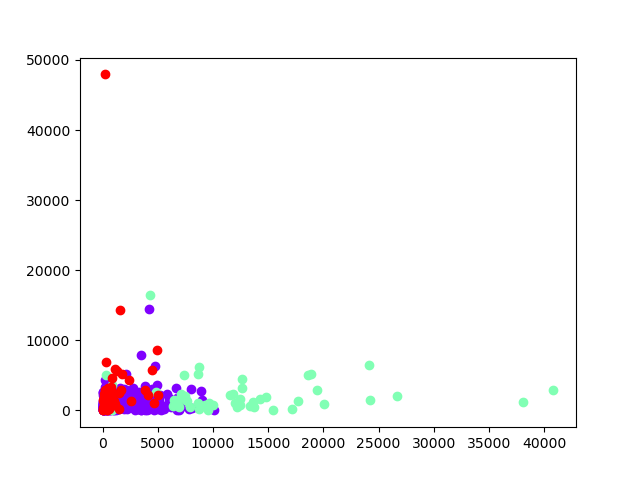
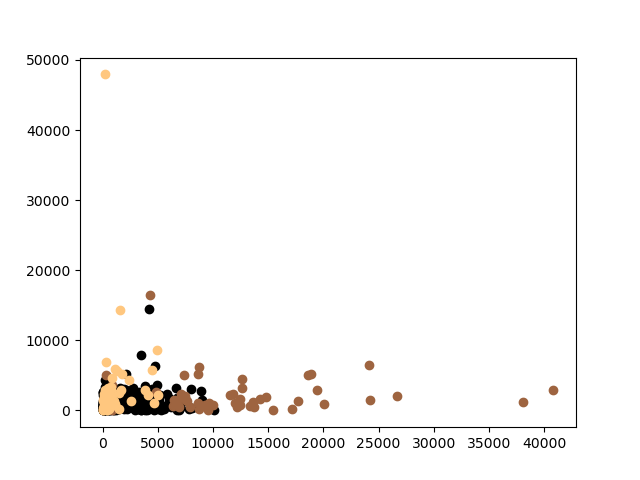
Fixed 1.4 trainging and testing

diff --git a/Classifcation2.py b/Classifcation2.py
@@ -15,7 +15,7 @@ def missingValues(df):
     nullInstances = df.isnull() # location of null instances
     totalMissing = nullInstances.sum().sum() # sum counts for each column
     Table["number of missing values"] = totalMissing 
-    Table["fraction missing values"] = totalMissing/(df.size-M)
+    Table["fraction of values missing"] = totalMissing/(df.size-M)
 
     nullRows = M - df.dropna().shape[0]
     Table["num of inst's missing values"] = nullRows
@@ -42,21 +42,22 @@ def encodeLabels(df, discClasses):
     return copy
 
 
-def trainTestModel(df):
+def trainTestSplit(df):
+    Xtrain = df.iloc[:,:-1]
+    Ytrain = df["class"]
+    Xtrain, Xtest, Ytrain, Ytest = model_select.train_test_split(Xtrain, Ytrain, random_state=0 )
+    return Xtrain, Xtest, Ytrain, Ytest
 
-    X = df.iloc[:,:-1]
-    Y = df["class"]
-    X_train, X_test, y_train, y_test = model_select.train_test_split(X, Y, random_state=0 )
-
-    # initialise the decision tree
-    clf = tree.DecisionTreeClassifier( random_state = 0 )
-    # fit the tree model to the training data
-    clf.fit(X_train, y_train)
-
-    testScore = clf.score(X_test, y_test)
+def trainModel(Xtrain, Ytrain):
+    clf = tree.DecisionTreeClassifier(random_state=0)
+    clf.fit(Xtrain,Ytrain)
+    return clf
+    
+def testModel(model,Xtest,Ytest):
+    testScore = model.score(Xtest, Ytest)
     errorRate = 1-testScore
-
     return errorRate 
+
 
 
 # splits dataset into 3 sets:
@@ -64,8 +65,6 @@ def trainTestModel(df):
 # only instances with NaN
 # 50/50 NaN/non-NaN
 def splitDataSet(df):
-    # noNan  = df[~df.isin(["missing"]).any(axis=1)]
-    # allNan = df[df.isin(["missing"]).any(axis=1)]
     noNan = df.dropna()
     allNan = df[df.isna().any(axis=1)]
 
@@ -79,27 +78,24 @@ def missingToModal(df):
     dfModal = df.copy(deep = True)
     for col in dfModal:
         dfModal[col].fillna(dfModal[col].mode()[0],inplace=True)
-        # column = dfModal[col]
-        # vals,counts = np.unique(column[~np.isnan(column)],return_counts=True)
-        # vals = np.unique(column[~np.isna(column)])
-        # index = np.argmax(counts)
-        # dfModal[col].fillna(vals[index])
-        # np.where(dfModal[col] != 'missing',dfModal[col], vals[index])
     return dfModal
     
 
 
-adultDataOrig = pd.read_csv("./data/adult.csv", dtype=str).drop("fnlwgt",1)
+#*****************
+# Initialisation
+# ****************
 
+adultDataOrig = pd.read_csv("./data/adult.csv", dtype=str).drop("fnlwgt",1)
 adultData = adultDataOrig.copy(deep=True)
 
-#****************
+#*****************
 # Part 1
 # ****************
 missing = missingValues(adultData)
 print(missing)
 
-#****************
+#*****************
 # Part 2
 # ****************
 
@@ -111,35 +107,43 @@ dfDiscrete = encodeLabels(adultData,discClasses)
 for col in dfDiscrete.columns:
     print("{} : {}".format(col, np.unique(getattr(dfDiscrete,col))))
 
-#****************
+#*****************
 # Part 3
 #****************
 
-errorRate = trainTestModel(dfDiscrete)
-print("error rate = ", errorRate)
+Xtrain, Xtest, Ytrain, Ytest = trainTestSplit(dfDiscrete)
+model = trainModel(Xtrain,Ytrain)
+errorRate = testModel(model,Xtest,Ytest)
+print("Ignored missing attr's error rate = ", errorRate)
 
-#****************
+#*****************
 # Part 4
 # ****************
 
-# D - entire dataset (adultData)
-
-# D' - dataset with all missing values + same number without missing values
-
-# D'1 - convert NaN to 'missing'
-
-# D'2 - replace NaN with modal column value
+# D   - entire dataset (adultData)
+# D'  - dataset with all missing values + same number without missing values
+# D'1 - converted NaN to 'missing'
+# D'2 - replaced NaN with modal column value
 
 D1 = splitDataSet(adultDataOrig) # contains NaN
-# D1.fillna("missing", inplace = True)
-
 D2 = missingToModal(D1)
 
 D1Encoded = encodeLabels(D1,discClasses)
 D2Encoded = encodeLabels(D2,discClasses)
 
-errorD1 = trainTestModel(D1Encoded)
-print(errorD1)
-errorD2 = trainTestModel(D2Encoded)
-print(errorD2)
+
+
+Xtrain = D1Encoded.iloc[:,:-1]
+Ytrain = D1Encoded.iloc[:,-1]
+model = trainModel(Xtrain,Ytrain)
+errorRate = testModel(model,Xtest,Ytest)
+print("D1 error rate = ", errorRate)
+
+
+Xtrain = D2Encoded.iloc[:,:-1]
+Ytrain = D2Encoded.iloc[:,-1]
+model = trainModel(Xtrain,Ytrain)
+errorRate = testModel(model,Xtest,Ytest)
+print("D2 error rate = ", errorRate)
+
 

diff --git a/Clustering.py b/Clustering.py
@@ -33,11 +33,12 @@ def plotKmeans(X, clusters, k):
 
     pairs = [pair for pair in itertools.combinations(X.columns,2)]
 
+    
     for pair in pairs:
-
-        colours = iter(cm.rainbow(np.linspace(0, 1, k)))
+        colours = iter(cm.get_cmap("copper")(np.linspace(0, 1, k)))
 
         Xsample = X[[ pair[0] , pair[1]]]
+
         for i in np.unique(clusters):
             c = "Cluster:" + str(i+1)
             plt.scatter(Xsample.iloc[clusters==i,0],Xsample.iloc[clusters==i,1], color=next(colours),label=c)
@@ -46,6 +47,28 @@ def plotKmeans(X, clusters, k):
         plt.savefig(name)
         plt.clf()
 
+def betweenClusterScore(k,fitter):
+    bc = euclidean_distances(fitter.cluster_centers_)
+    dists = 0
+    for c in bc:
+        # square distances
+        c = c[list(c).index(0):]
+        # sum the distances
+        dists += sum([n**2 for n in c])
+    return dists
+
+
+def withinClusterScore(X,clusterLabels,fitter, k):
+    wc = []
+    for i in range(k):
+        dists = 0
+        # get feature vectors
+        clustFeats = X.loc[clusterLabels == i] 
+        for row in clustFeats.iterrows():
+            dist = np.linalg.norm(fitter.cluster_centers_[i] - row[1].values)
+            dists += dist**2
+        wc.append(dists)
+    return dists
 
 # INITIALISATION
 
@@ -62,14 +85,23 @@ for attr in tabl:
 
 # Part 2
 k=3
-fitter, clusters = kmeans(customerData,k)
-plotKmeans(customerData,clusters,k)
+# fitter, clusters = kmeans(customerData,k)
+# plotKmeans(customerData,clusters,k)
 
 # Part 3
 kSet = [3,5,10]
-
+BCs,WCs,ratios = [],[],[]
 for i in kSet:
-    fitter, clusters = kmeans(customerData,i)
-    BC = euclidean_distances(fitter.cluster_centers_) 
-    WC
-    ratio = WC/BC
+    fitter, clusterLabels = kmeans(customerData,i)
+    BC = betweenClusterScore(i,fitter)
+    WC = withinClusterScore(customerData,clusterLabels,fitter,i)
+    BCs.append(BC)
+    WCs.append(WC)
+    ratios.append(BC/WC)
+
+print(BCs)
+print(WCs)
+print(ratios)
+
+    # WC
+    # ratio = WC/BC

diff --git a/Classification.py b/Classification.py
@@ -79,9 +79,9 @@ import sklearn.metrics as metrics
 # Y = dfDiscrete["class"]
 # del dfDiscrete["class"]
 
-X_train, X_test, y_train, y_test = model_select.train_test_split( dfDiscrete.values, Y, random_state=0 )
-M_train = len( X_train )
-M_test = len( X_test )
+Xtrain, Xtest, Ytrain, Ytest = model_select.train_test_split( dfDiscrete.values, Y, random_state=0 )
+M_train = len( Xtrain )
+M_test = len( Xtest )
 # print('number of training instances = ' + str( M_train ))
 # print('number of test instances = ' + str( M_test ))
 
@@ -89,22 +89,22 @@ M_test = len( X_test )
 clf = tree.DecisionTreeClassifier( random_state = 0 )
 
 # fit the tree model to the training data
-clf.fit( X_train, y_train )
+clf.fit( Xtrain, Ytrain )
 
 # predict the labels for the test set
-y_hat = clf.predict( X_test )
+y_hat = clf.predict( Xtest )
 
 
 # count the number of correctly predicted labels
 # count = 0.0
 # for i in range( M_test ):
-#     if ( y_hat[i] == np.array(y_test)[i] ):
+#     if ( y_hat[i] == np.array(Ytest)[i] ):
 #         count += 1
 # score = ( count / M_test ) # score is proportion of correct predictions
 
-trainScore = clf.score(X_train, y_train)
-testScore = clf.score(X_test, y_test)
-accuracy = metrics.accuracy_score(y_test,y_hat)
+trainScore = clf.score(Xtrain, Ytrain)
+testScore = clf.score(Xtest, Ytest)
+accuracy = metrics.accuracy_score(Ytest,y_hat)
 
 errorRate = 1-testScore
 # print('training score = ', trainScore)
